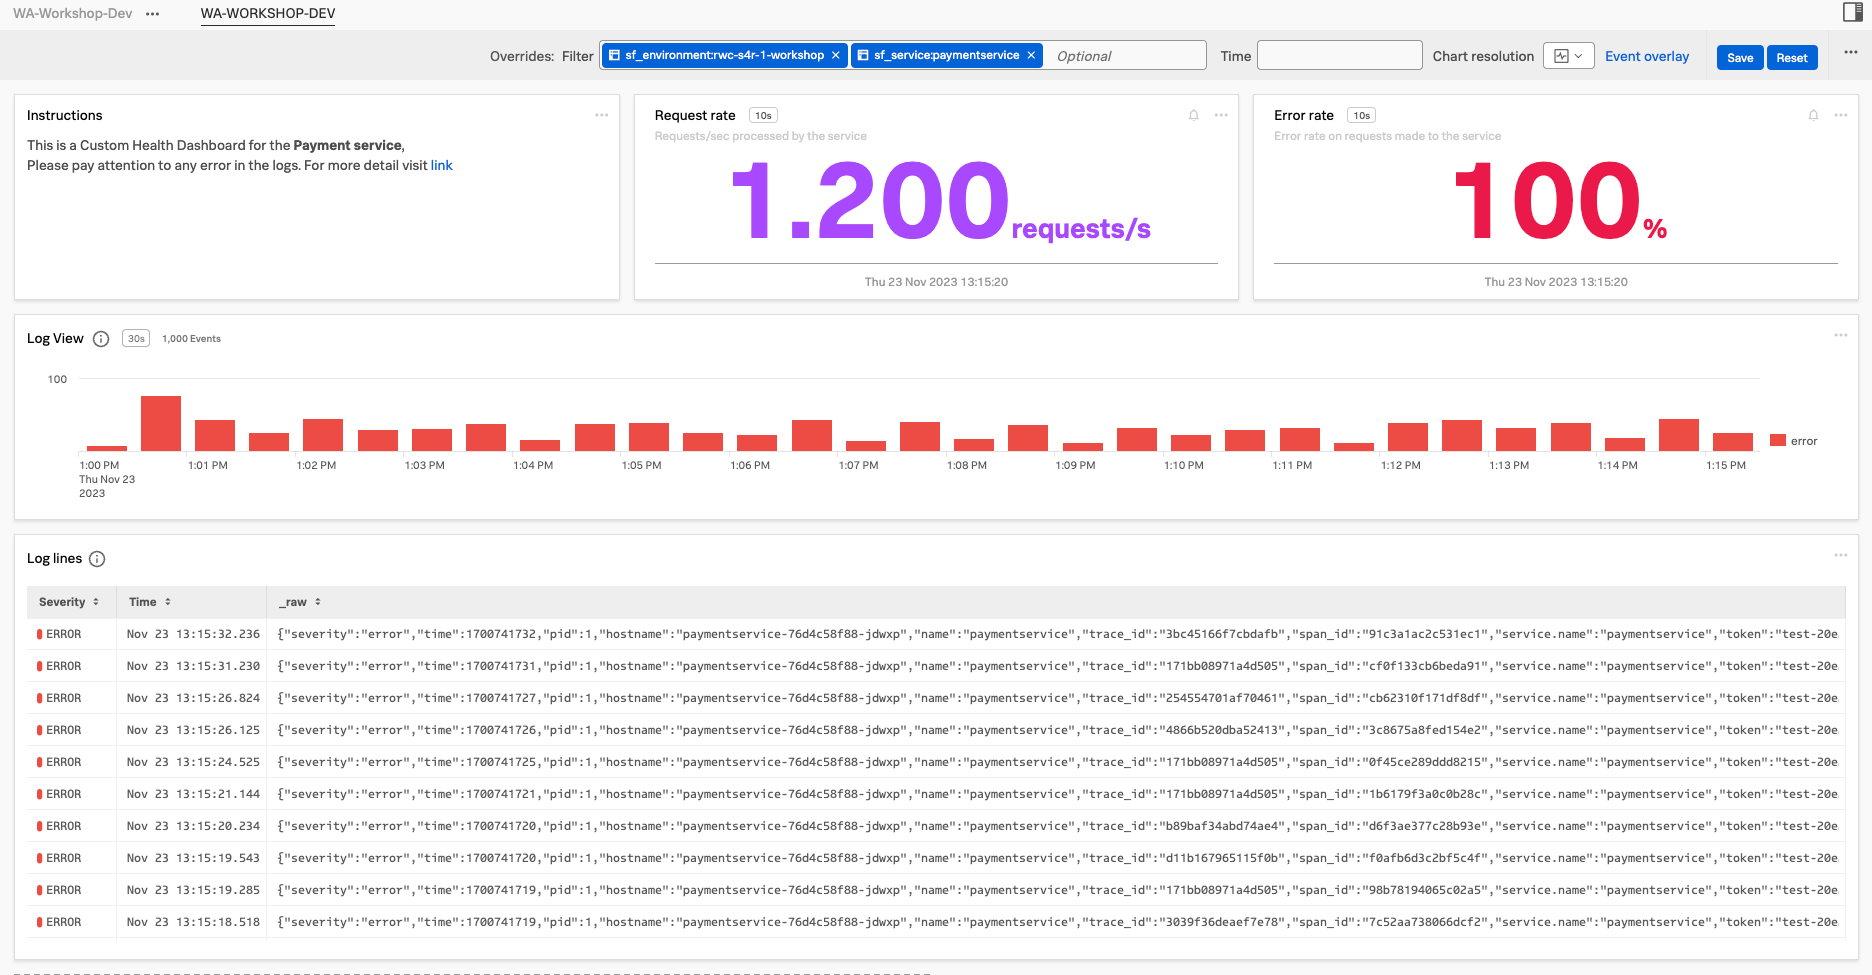
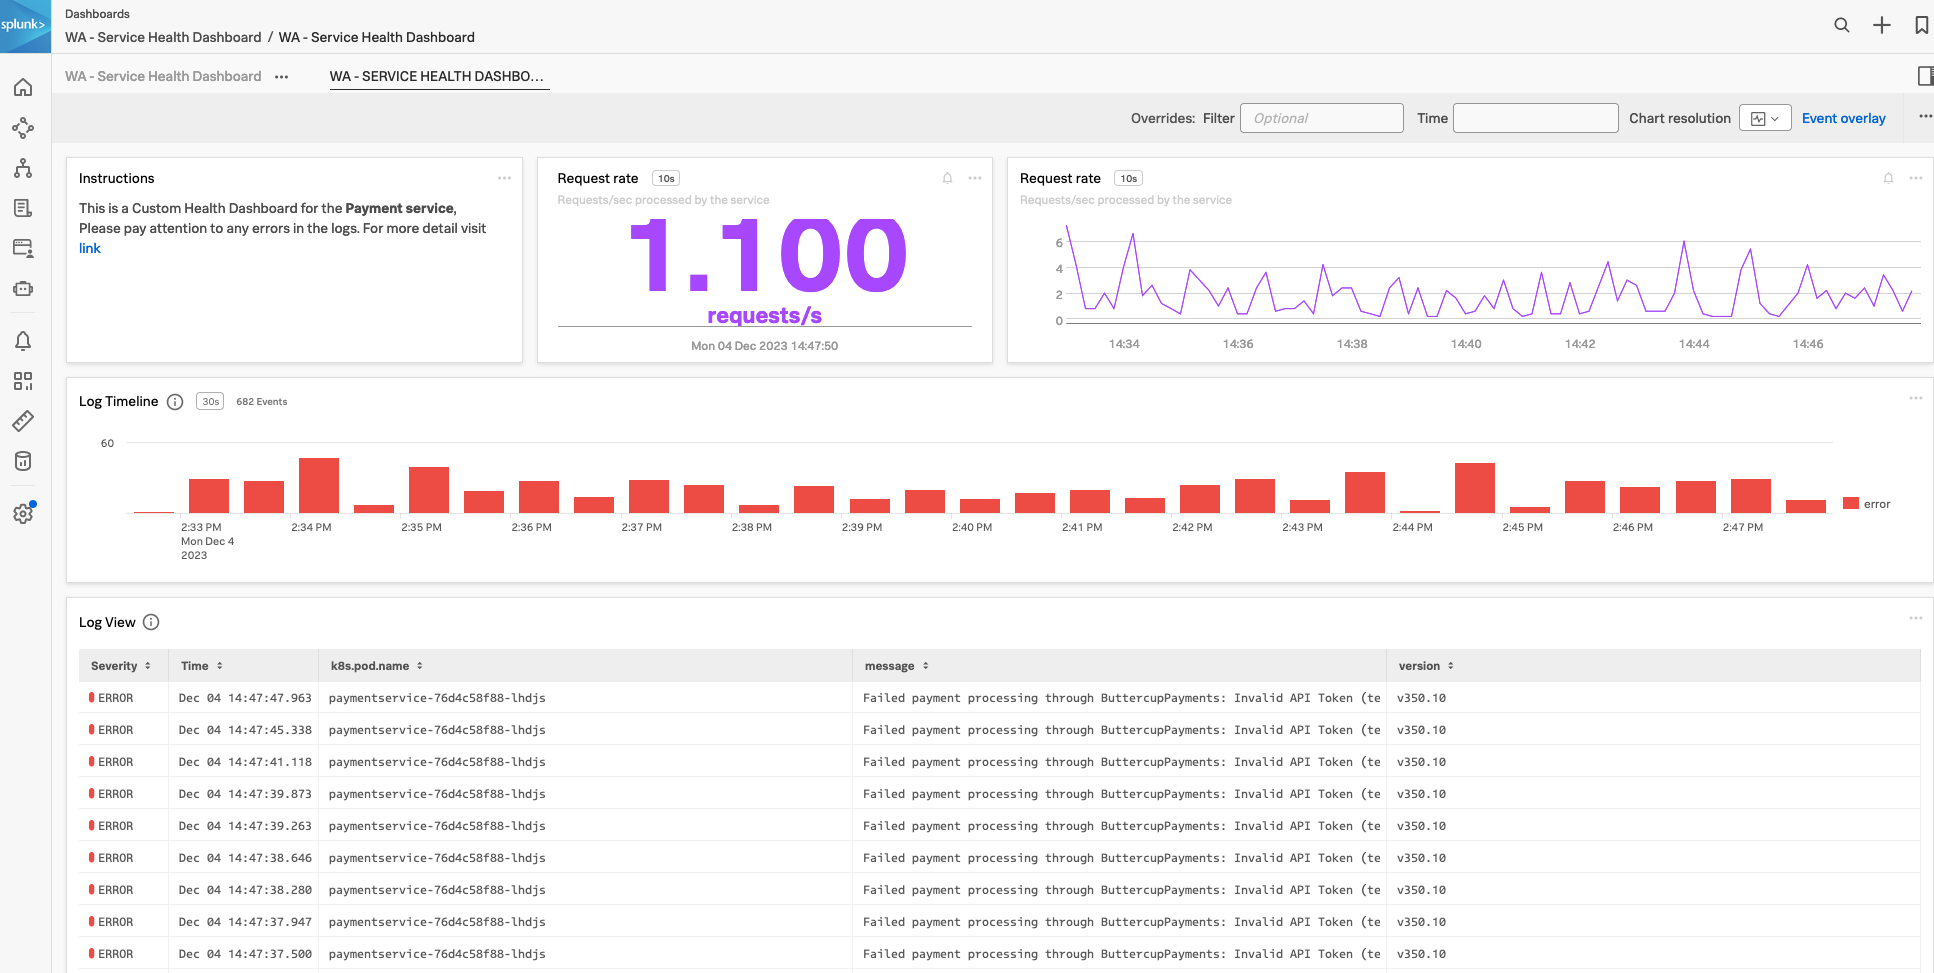
more custom  charts

diff --git a/content/en/s4r/9-custom-dashboard/2-add-chart.md b/content/en/s4r/9-custom-dashboard/2-add-chart.md
@@ -8,24 +8,25 @@ In this section, we are going to use the **Copy and Paste** functionality to ext
 
 {{% notice title="Exercise" style="green" icon="running" %}}
 
-* Find your Service Health Dashboard.
+* Find your Service Health Dashboard if it is not open still.
 * Select the **2+** at the top of the page and select **Paste charts**, this will create the charts in your custom dashboard.
 <!--* Add `sf_environment:[WORKSHOPNAME]` and `sf_service:payment_service` to the override filter box. ( This will make sure the charts only show data for your workshop **paymentservice**).
 -->
 * The chart currently shows data for all **Environments** and **Services**, so let's add a filter for our environment and the **paymentservice**.
 * Click on the 3 dots **...** at the top right side of the **Request Rate** text chart. This will open the chart in edit mode.
-* In the new screen, click on the {{% button style="blue" %}}sf_environment{{% /button %}} button (**1**) in the middle of the screen, and pick the [WORKSHOPNAME] from the drop-down. The button should change to **sf_environment:[WORKSHOPNAME]**
-* Do the same with the {{% button style="blue" %}}sf_service.{{% /button %}} button (**2**), only this time change it to `paymentservice`.
+* In the new screen, click on the x in the {{% button style="blue" %}}sf_environment:* x{{% /button %}} button (**1**) (**1**) in the middle of the screen to close it.
+* Click on the {{% button style="blue" %}}**+**{{% /button %}}  to add a new filter and select **sf_environment:**, the pick the [WORKSHOPNAME] from the drop-down and hit **Apply**. The button should change to **sf_environment:[WORKSHOPNAME]**
+* Do the same with for the {{% button style="blue" %}}sf_service.{{% /button %}} button (**2**), close it and create a new filter for **sf_service**. Only this time change it to `paymentservice`.
   ![edit chart](../images/edit-chart.png)
 * Click the {{% button style="blue" %}}Save and close {{% /button %}} button (**3**).
 * Repeat the previous 4 steps for the **Request Rate** text chart
 * Click {{% button style="blue" %}}Save{{% /button %}} after you  have update the two charts.
 * As the new pasted charts appeared at the bottom of our dashboard, we need to re-organize our dashboard gain.
 * First drag the *Log view* chart to the second row, between the *Instructions* chart and the *Log Lines* chart, and expand it to fill the row.
-* First resize the two new charts to be 1/3 of a row chart we just pasted, before moving them to the top row, so you have the *Instruction, Request Rate text  & Request Rate* line chart taking up the top row.
+* First resize the *Instructions* and the *Request rate* text charts to be 1/4 of a row chart. and add them on the top line. Add the  *Request rate*  line chart  next to it and have it fill the row so you have the *Instruction, Request Rate text  & Request Rate* line chart taking up the top row.
   ![New dashboard look](../images/copyandpastedcharts.png)
-* Click the {{% button style="blue" %}}Save{{% /button %}} button again to keep the latest changes.
-
+<!--* Click the {{% button style="blue" %}}Save{{% /button %}} button again to keep the latest changes.
+-->
 {{% /notice %}}
 
 Next, we are going to create a custom chart based on our Synthetic test that is running.
